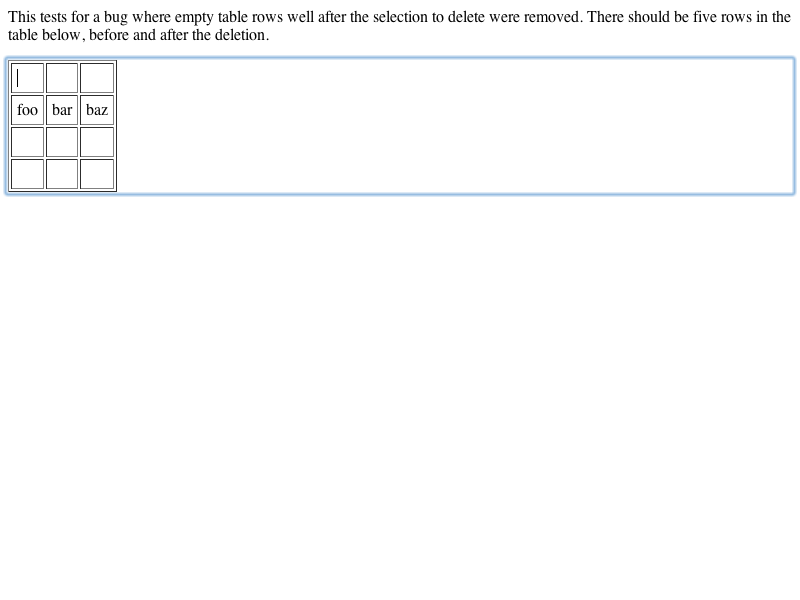
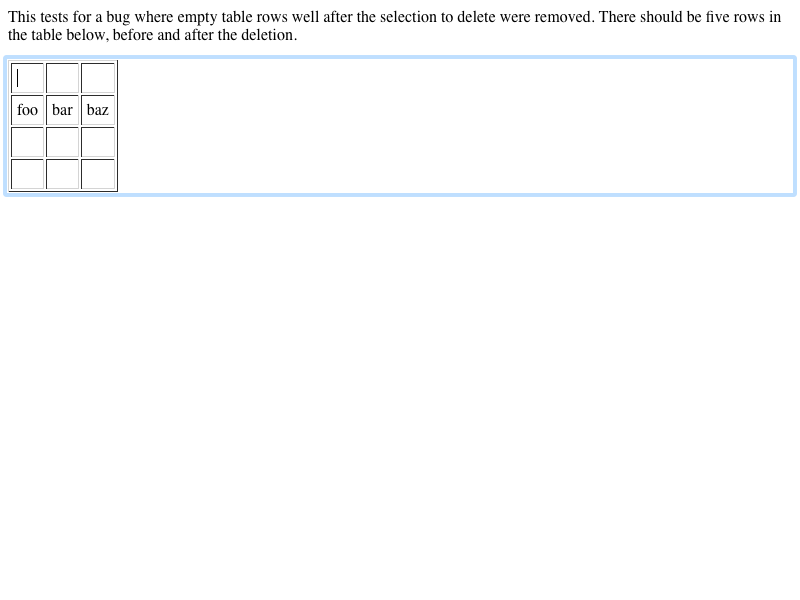
Caret rendered at incorrect location inside empty table cell https://bugs.webkit.org/show_bug.cgi?id=85385
Reviewed by Zalan Bujtas.

Source/WebCore:

This is based on a previous patch by Shezan Baig <shezbaig.wk@gmail.com>.

This fixes the position of the caret in empty cells,
that was painted lower than expected
(and then modified when you start to edit the cell).

Ensures that editable table cells have at least one line when
they are laid out. This ensures that the cell's intrinsic before/after
padding is calculated correctly, which results in the caret location
being calculated correctly.

Test: editing/caret/caret-in-empty-cell.html

* rendering/RenderTableCell.cpp:
(WebCore::RenderTableCell::hasLineIfEmpty): Override method to consider
that it has an an empty line if the table cell is editable.
* rendering/RenderTableCell.h:

LayoutTests:

* editing/caret/caret-in-empty-cell-expected.html: Added.
* editing/caret/caret-in-empty-cell.html: Added.
* editing/deleting/5206311-2-expected.txt:
* editing/deleting/5433862-1-expected.txt:
* platform/gtk/editing/deleting/5126166-expected.png:
* platform/gtk/editing/deleting/5126166-expected.txt:
* platform/gtk/editing/deleting/5206311-1-expected.png:
* platform/gtk/editing/deleting/5206311-1-expected.txt:
* platform/gtk/editing/deleting/5433862-2-expected.png:
* platform/gtk/editing/deleting/5433862-2-expected.txt:
* platform/gtk/editing/deleting/5483370-expected.png:
* platform/gtk/editing/deleting/5483370-expected.txt:
* platform/gtk/editing/selection/move-by-line-001-expected.png:
[…]

Changed region(s): [[0.0, 0.0, 1.0, 0.33]]

diff --git a/LayoutTests/editing/caret/caret-in-empty-cell-expected.html b/LayoutTests/editing/caret/caret-in-empty-cell-expected.html
@@ -1,0 +1,25 @@
+<!DOCTYPE html>
+<style>
+  table {
+    font-size: 2em;
+  }
+  td {
+    padding: 5px;
+  }
+  #emptycell {
+    width: 50%;
+  }
+</style>
+
+<p>Test passes if the caret in the empty cell is inside the cell itself (that means it's vertically aligned with the reference text).</p>
+
+<table border="1" contenteditable>
+  <td>Reference text</td>
+  <td id="emptycell">&nbsp;</td>
+</table>
+
+<script>
+  var selection = window.getSelection();
+  var emptycell = document.getElementById("emptycell");
+  selection.collapse(emptycell, 0);
+</script>

diff --git a/LayoutTests/editing/caret/caret-in-empty-cell.html b/LayoutTests/editing/caret/caret-in-empty-cell.html
@@ -1,0 +1,25 @@
+<!DOCTYPE html>
+<style>
+  table {
+    font-size: 2em;
+  }
+  td {
+    padding: 5px;
+  }
+  #emptycell {
+    width: 50%;
+  }
+</style>
+
+<p>Test passes if the caret in the empty cell is inside the cell itself (that means it's vertically aligned with the reference text).</p>
+
+<table border="1" contenteditable>
+  <td>Reference text</td>
+  <td id="emptycell"></td>
+</table>
+
+<script>
+  var selection = window.getSelection();
+  var emptycell = document.getElementById("emptycell");
+  selection.collapse(emptycell, 0);
+</script>

diff --git a/Source/WebCore/rendering/RenderTableCell.cpp b/Source/WebCore/rendering/RenderTableCell.cpp
@@ -1380,4 +1380,12 @@ RenderPtr<RenderTableCell> RenderTableCell::createAnonymousWithParentRenderer(co
     return RenderTableCell::createTableCellWithStyle(parent.document(), parent.style());
 }
 
+bool RenderTableCell::hasLineIfEmpty() const
+{
+    if (element() && element()->hasEditableStyle())
+        return true;
+
+    return RenderBlock::hasLineIfEmpty();
+}
+
 } // namespace WebCore

diff --git a/Source/WebCore/rendering/RenderTableCell.h b/Source/WebCore/rendering/RenderTableCell.h
@@ -199,6 +199,8 @@ private:
     void nextSibling() const = delete;
     void previousSibling() const = delete;
 
+    bool hasLineIfEmpty() const final;
+
     // Note MSVC will only pack members if they have identical types, hence we use unsigned instead of bool here.
     unsigned m_column : 25;
     unsigned m_cellWidthChanged : 1;
